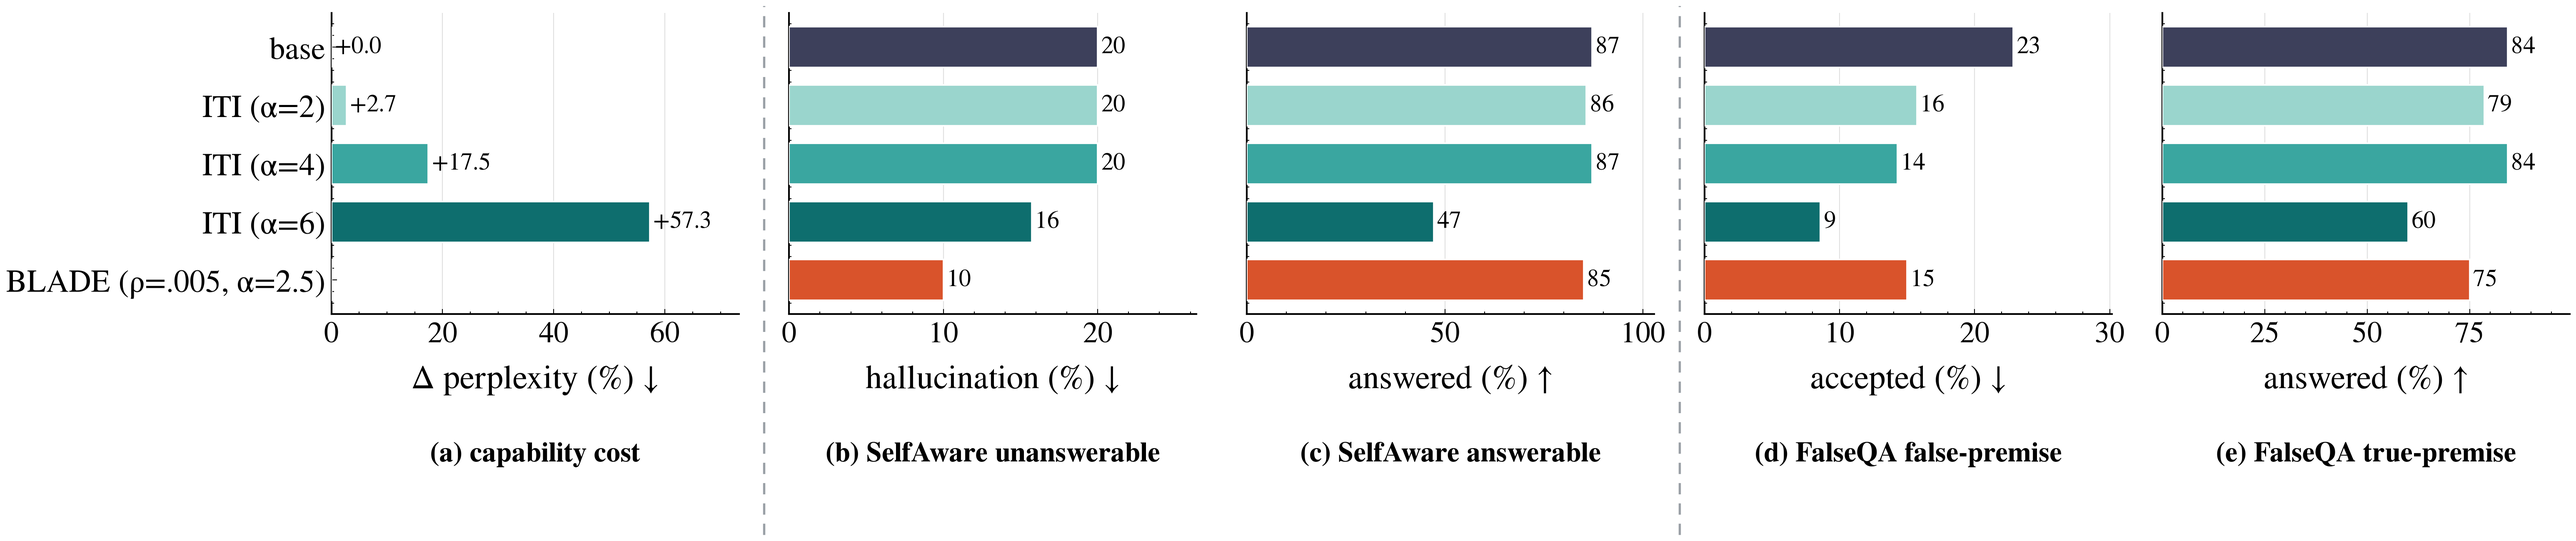
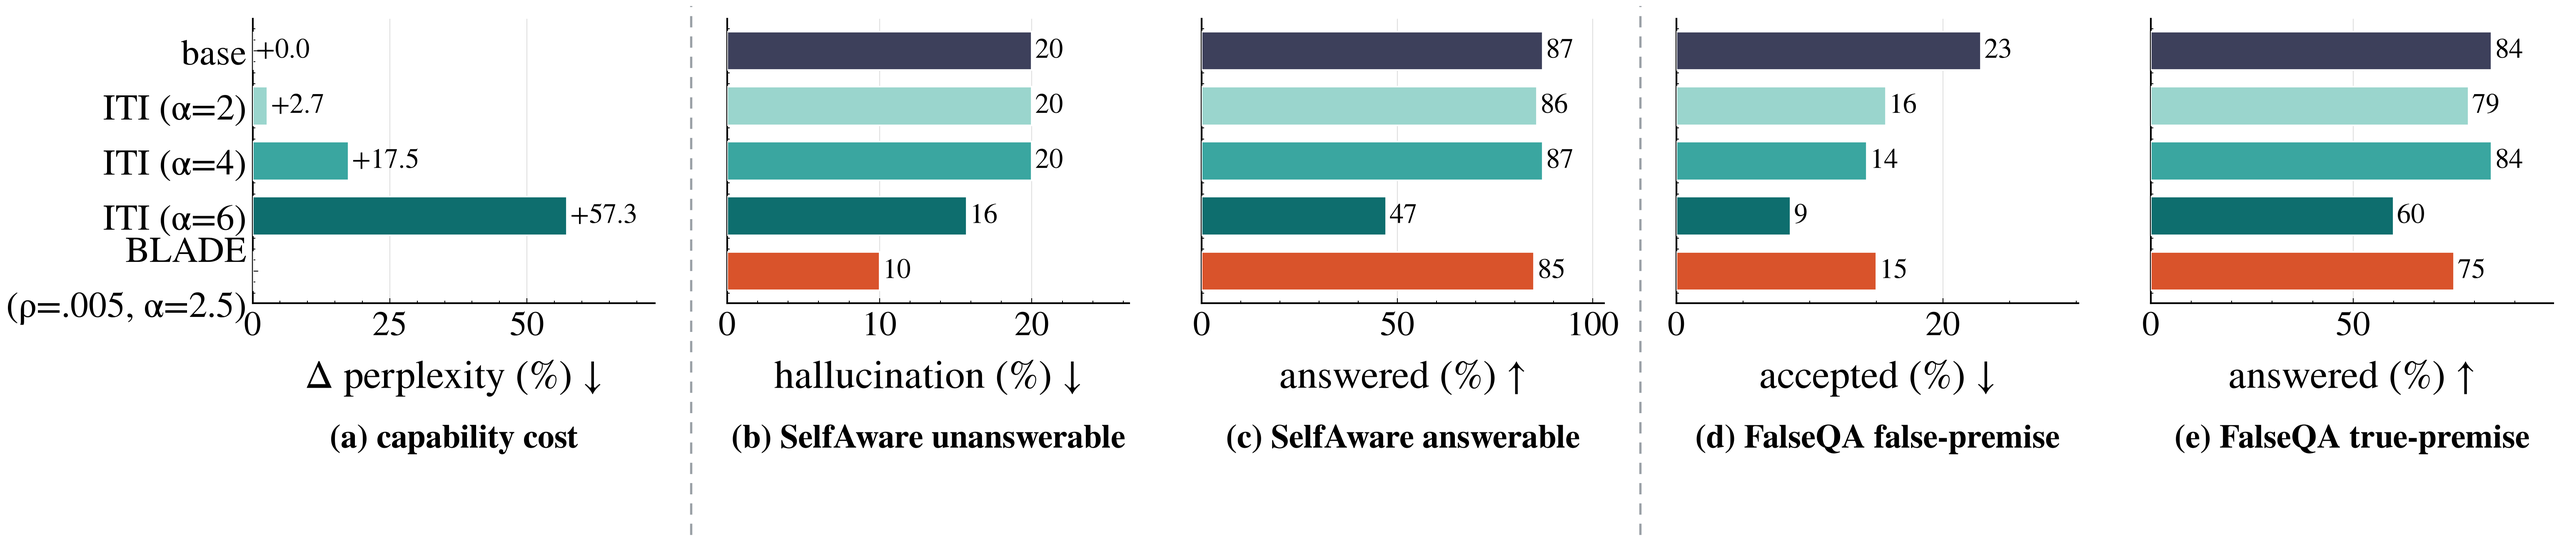
uncertainty_method_cmp: larger fonts; wrap long BLADE y-label to two lines

diff --git a/scripts/plot_method_comparison.py b/scripts/plot_method_comparison.py
@@ -15,8 +15,8 @@ R = Path("results"); FIG = Path("figures"); FIG.mkdir(exist_ok=True)
 SCS = Path("/tmp/claude-1000/-home-xfang1999-Projects-TestTimeSafetyPrune/"
            "e16f646c-64a5-440b-bd68-985c068d25df/scratchpad")
 plt.style.use(["science", "no-latex"])
-plt.rcParams.update({"font.size": 16, "axes.labelsize": 19, "axes.titlesize": 18,
-                     "xtick.labelsize": 17, "ytick.labelsize": 18, "xtick.top": False,
+plt.rcParams.update({"font.size": 19, "axes.labelsize": 23, "axes.titlesize": 21,
+                     "xtick.labelsize": 20, "ytick.labelsize": 21, "xtick.top": False,
                      "ytick.right": False, "axes.linewidth": 1.0})
 
 cell = defaultdict(list)
@@ -47,7 +47,7 @@ def rate(ds, gold, cond, acts=("answer",)):
 METHODS = [("base", "base", "#3D405B"),
            ("ITI (α=2)", "iti_a2.0", "#9AD5CD"), ("ITI (α=4)", "iti_a4.0", "#3AA6A0"),
            ("ITI (α=6)", "iti_a6.0", "#0E6E6E"),
-           ("BLADE (ρ=.005, α=2.5)", "r0.005_a2.5", "#D9532B")]
+           ("BLADE\n(ρ=.005, α=2.5)", "r0.005_a2.5", "#D9532B")]
 
 # Δppl (%) per method config for the capability-cost panel
 _iti = json.load(open(R / "iti_ppl.json"))["alpha_ppl_delta"]
@@ -66,17 +66,17 @@ for k, (ax, (ds, gold, title, xlab, low)) in enumerate(zip(axes.flat, PAN)):
     if ds == "ppl":
         vals = [PPL[c[1]] for c in METHODS]
         b = ax.barh(y, vals, H, color=cols, edgecolor="white", linewidth=0.9, zorder=3)
-        ax.bar_label(b, fmt="%+.1f", fontsize=14, padding=2)
+        ax.bar_label(b, fmt="%+.1f", fontsize=16, padding=2)
         ax.set_xlim(0, max(vals) * 1.28)
     else:
         vals = [rate(ds, gold, c[1]) for c in METHODS]
         b = ax.barh(y, vals, H, color=cols, edgecolor="white", linewidth=0.9, zorder=3)
-        ax.bar_label(b, fmt="%.0f", fontsize=14, padding=2)
+        ax.bar_label(b, fmt="%.0f", fontsize=16, padding=2)
         ax.set_xlim(0, max([v for v in vals if v == v]) * (1.32 if low else 1.18))
     ax.set_yticks(y); ax.set_yticklabels(labs); ax.invert_yaxis()
     ax.set_xlabel(xlab, labelpad=8)                                   # metric = x-axis title
     ax.text(0.5, -0.42, f"({chr(97+k)}) {title}", transform=ax.transAxes,   # panel subtitle below
-            ha="center", va="top", fontsize=16, fontweight="bold")
+            ha="center", va="top", fontsize=19, fontweight="bold")
     ax.xaxis.grid(True, ls="-", lw=0.5, color="#DFDFDF", zorder=0); ax.set_axisbelow(True)
     ax.spines[["top", "right"]].set_visible(False)
 fig.tight_layout()
